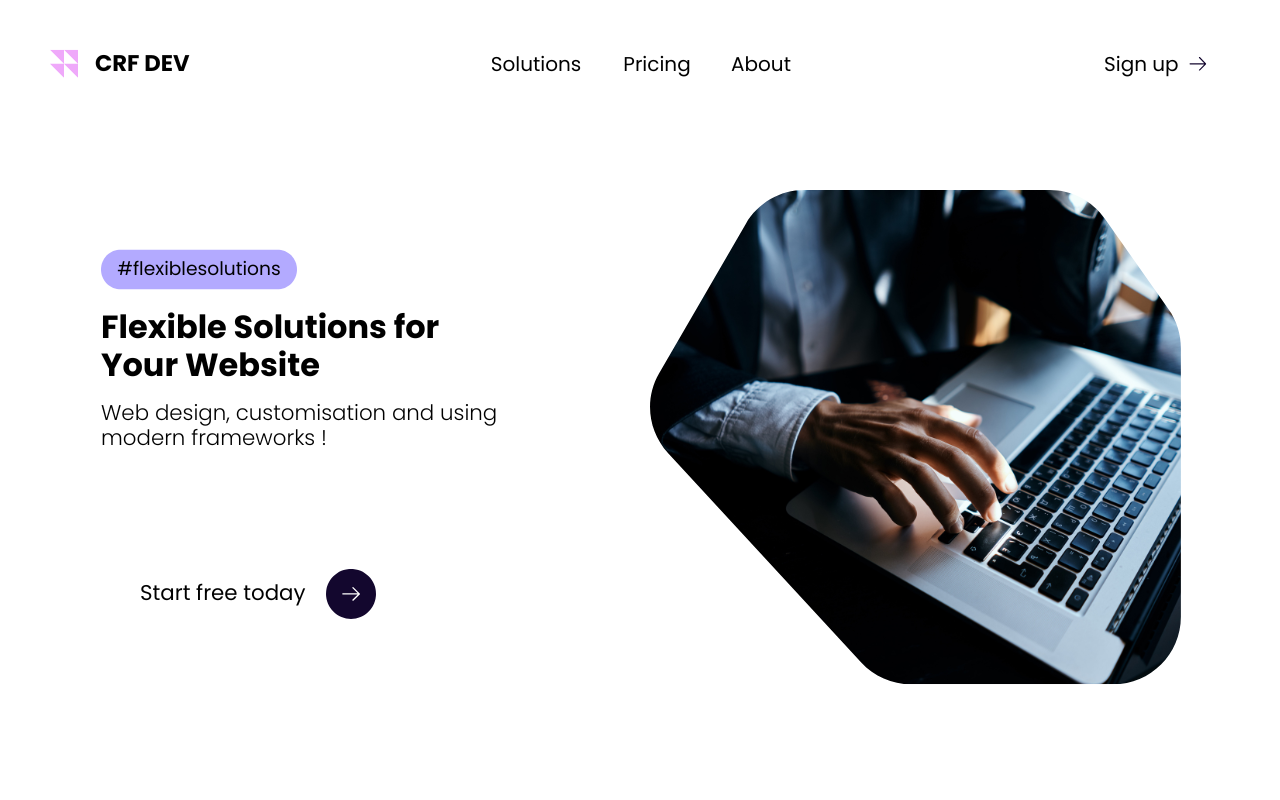
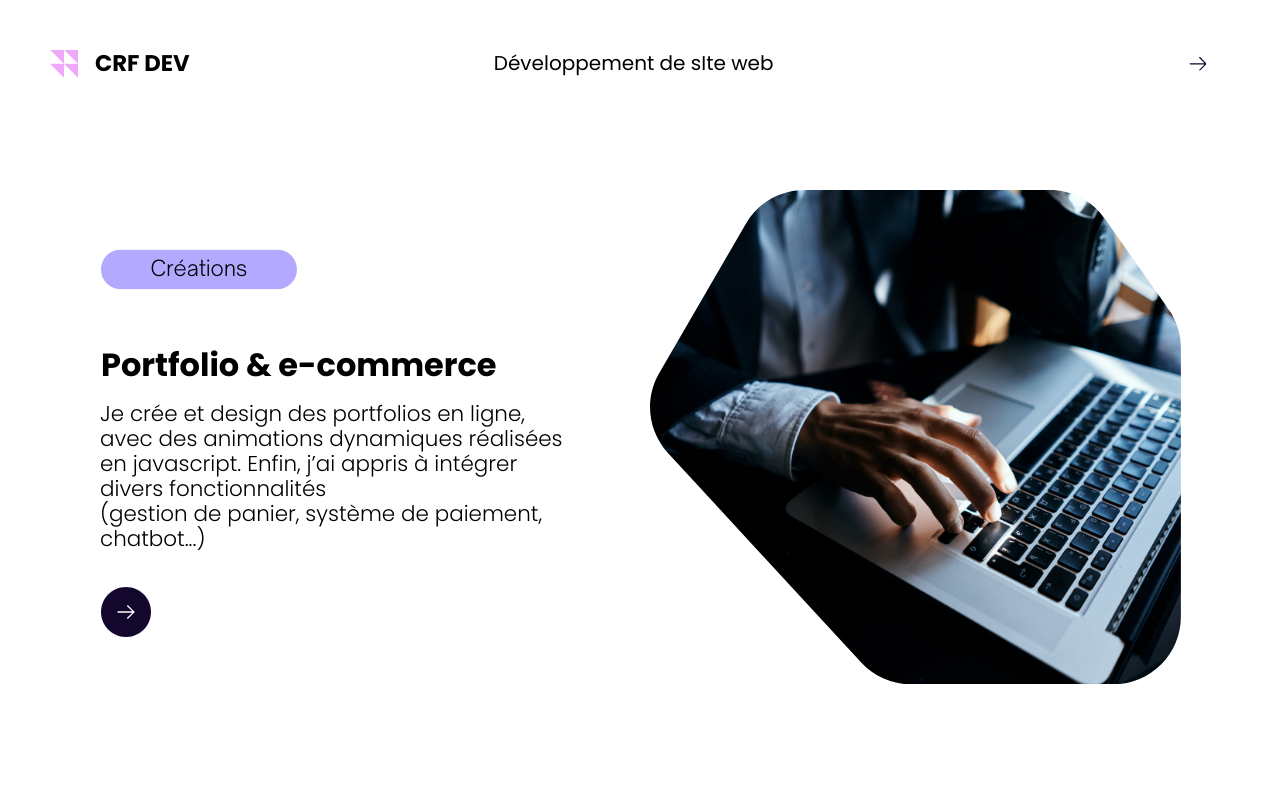
police + design update

diff --git a/src/components/APropos/Slider.js b/src/components/APropos/Slider.js
@@ -29,7 +29,7 @@ function Slider({ setImage }) {
             texte: {
                 info1: "Web developpement",
                 info2: "Cybersécurité",
-                info3: "programmation bas niveau",
+                info3: "Programmation bas niveau",
             },
         },
         {
@@ -47,25 +47,25 @@ function Slider({ setImage }) {
             texte: {
                 info1: "Escalade",
                 info2: "Randonné",
-                info3: "trek",
+                info3: "Trek",
             },
         },
         {
             number: 5,
             content: "Culture",
             texte: {
-                info1: "Cinéma, film western, science-fiction",
-                info2: "Lecture, Polar, dystopie, voyage",
-                info3: "Musique, piano , house, nouvelle génération",
+                info1: "Cinéma, Film Western, Science-fiction",
+                info2: "Lecture, Polar, Voyage",
+                info3: "Musique, Piano , House, Nouvelle génération",
             },
         },
         {
             number: 6,
             content: "Art",
             texte: {
-                info1: "Architecture moderne, épuré",
+                info1: "Architecture moderne, Epuré",
                 info2: "Dessin",
-                info3: "créeation diy",
+                info3: "Création diy",
             },
         },
     ];

diff --git a/public/index.html b/public/index.html
@@ -2,7 +2,6 @@
 <html lang="en">
   <head>
     <meta charset="utf-8" />
-    <link rel="icon" href="%PUBLIC_URL%/favicon.ico" />
     <meta name="viewport" content="width=device-width, initial-scale=1" />
     <meta name="theme-color" content="#000000" />
     <meta
@@ -12,6 +11,7 @@
     <link rel="preconnect" href="https://fonts.googleapis.com">
     <link rel="preconnect" href="https://fonts.gstatic.com" crossorigin>
     <link href="https://fonts.googleapis.com/css2?family=Caesar+Dressing&family=Homemade+Apple&family=Irish+Grover&family=Nunito+Sans:ital,opsz,wght@0,6..12,200..1000;1,6..12,200..1000&family=Playwrite+FR+Moderne:wght@100..400&display=swap" rel="stylesheet">
+    <link href="https://fonts.googleapis.com/css2?family=Montserrat:ital,wght@0,100..900;1,100..900&display=swap" rel="stylesheet">
     <!--
       manifest.json provides metadata used when your web app is installed on a
       user's mobile device or desktop. See https://developers.google.com/web/fundamentals/web-app-manifest/
@@ -26,7 +26,7 @@
       work correctly both with client-side routing and a non-root public URL.
       Learn how to configure a non-root public URL by running `npm run build`.
     -->
-    <title>React App</title>
+    <title>Crifo Robin Portfolio</title>
   </head>
   <body>
     <noscript>You need to enable JavaScript to run this app.</noscript>

diff --git a/src/assets/style.css b/src/assets/style.css
@@ -92,7 +92,7 @@ body {
     color: #000;
     font-weight: bold;
     z-index: 1;
-    font-family: "Homemade Apple", cursive;
+    font-family: "Montserrat", serif;
     font-weight: 400;
     font-style: normal;
 }
@@ -109,7 +109,7 @@ body {
 
 .hero-description p {
     padding-right: 1em;
-    font-family: "Homemade Apple", cursive;
+    font-family: "Montserrat", serif;
     font-weight: 300; /* Poids léger pour un sous-titre */
     font-size: 1.5em; /* Taille du texte */
     color: #555; /* Couleur du texte */
@@ -180,7 +180,7 @@ padding: 0.5em;
 }
 
 .Hero-list li {
-    font-family: "Homemade Apple", cursive;
+    font-family: "Montserrat", serif;
     list-style: none;
     margin-bottom: 10px;
     padding: 15px;
@@ -431,7 +431,7 @@ padding: 0.5em;
 .skill-section {
     position: relative;
     z-index: 3;
-    font-family: "Homemade Apple", cursive;
+    font-family: "Montserrat", serif;
 
 }
 

diff --git a/src/assets/parcours.css b/src/assets/parcours.css
@@ -4,7 +4,7 @@
     background-size: cover;
     background-attachment: fixed; /* Garde l'image de fond fixe */
     background-position: center;
-    background-color: rgba(255, 228, 196, 0.332);
+    background-color: white;
 }
 
 
@@ -88,7 +88,7 @@
 .parcours-text h3 {
     font-size: 1.75rem;
     color: #555;
-    font-family: "Homemade Apple", cursive;
+    font-family: "Montserrat", serif;
 }
 
 .parcours-text p, .parcours-text li {

diff --git a/src/assets/apropos.css b/src/assets/apropos.css
@@ -70,7 +70,7 @@
     transition: opacity 0.5s ease;
     padding: 0;
     margin: 0;
-    font-family: "Playwrite FR Moderne";
+    font-family: "Montserrat", serif;
 }
 
 .slide-text li {

diff --git a/src/assets/layout.css b/src/assets/layout.css
@@ -7,7 +7,7 @@
     background: transparent;
     color: white;
     z-index: 3;
-    font-family: "Homemade Apple", cursive;
+    font-family: "Montserrat", serif;
     width: 100%;
 }
 
